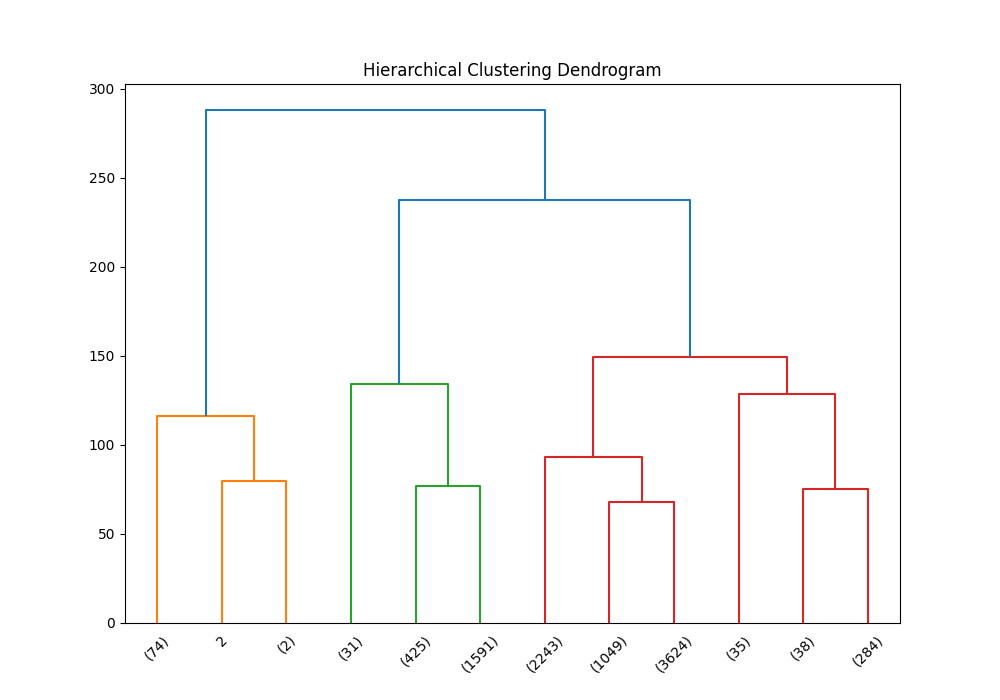
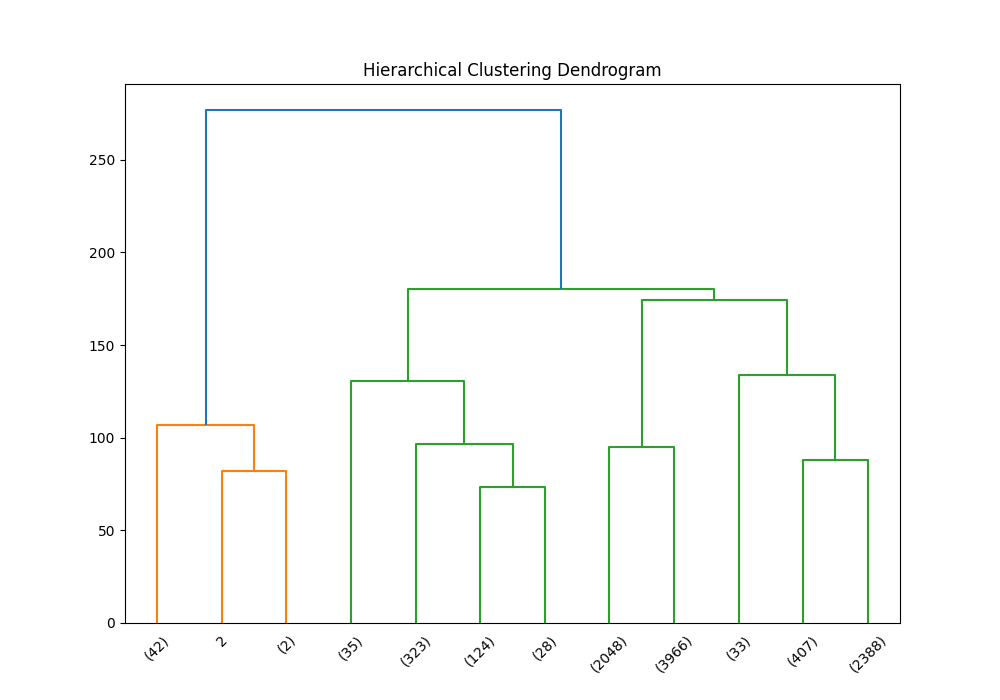
Latest Run results

diff --git a/goodreads/report.md b/goodreads/report.md
@@ -1,0 +1,187 @@
+# Dataset Analysis Report
+## CSV File Name: goodreads.csv
+## Dataset Overview
+- **Shape:** 10000 rows and 23 columns
+### Columns and Data Types:
+```plaintext
+book_id                        int64
+goodreads_book_id              int64
+best_book_id                   int64
+work_id                        int64
+books_count                    int64
+isbn                          object
+isbn13                       float64
+authors                       object
+original_publication_year    float64
+original_title                object
+title                         object
+language_code                 object
+average_rating               float64
+ratings_count                  int64
+work_ratings_count             int64
+work_text_reviews_count        int64
+ratings_1                      int64
+ratings_2                      int64
+ratings_3                      int64
+ratings_4                      int64
+ratings_5                      int64
+image_url                     object
+small_image_url               object
+```
+### Sample Rows:
+```plaintext
+    book_id  goodreads_book_id  best_book_id   work_id  books_count        isbn        isbn13                                                 authors  original_publication_year                                                                        original_title                                                             title language_code  average_rating  ratings_count  work_ratings_count  work_text_reviews_count  ratings_1  ratings_2  ratings_3  ratings_4  ratings_5                                                                                 image_url                                                                         small_image_url
+0         1            2767052       2767052   2792775          272   439023483  9.780439e+12                                         Suzanne Collins                     2008.0                                                                      The Hunger Games                           The Hunger Games (The Hunger Games, #1)           eng            4.34        4780653             4942365                   155254      66715     127936     560092    1481305    2706317                                https://images.gr-assets.com/books/1447303603m/2767052.jpg                              https://images.gr-assets.com/books/1447303603s/2767052.jpg
+1         2                  3             3   4640799          491   439554934  9.780440e+12                             J.K. Rowling, Mary GrandPré                     1997.0                                              Harry Potter and the Philosopher's Stone          Harry Potter and the Sorcerer's Stone (Harry Potter, #1)           eng            4.44        4602479             4800065                    75867      75504     101676     455024    1156318    3011543                                      https://images.gr-assets.com/books/1474154022m/3.jpg                                    https://images.gr-assets.com/books/1474154022s/3.jpg
+2         3              41865         41865   3212258          226   316015849  9.780316e+12                                         Stephenie Meyer                     2005.0                                                                              Twilight                                           Twilight (Twilight, #1)         en-US            3.57        3866839             3916824                    95009     456191     436802     793319     875073    1355439                                  https://images.gr-assets.com/books/1361039443m/41865.jpg                                https://images.gr-assets.com/books/1361039443s/41865.jpg
+3         4               2657          2657   3275794          487    61120081  9.780061e+12                                              Harper Lee                     1960.0                                                                 To Kill a Mockingbird                                             To Kill a Mockingbird           eng            4.25        3198671             3340896                    72586      60427     117415     446835    1001952    1714267                                   https://images.gr-assets.com/books/1361975680m/2657.jpg                                 https://images.gr-assets.com/books/1361975680s/2657.jpg
+4         5               4671          4671    245494         1356   743273567  9.780743e+12                                     F. Scott Fitzgerald                     1925.0                                                                      The Great Gatsby                                                  The Great Gatsby           eng            3.89        2683664             2773745                    51992      86236     197621     606158     936012     947718                                   https://images.gr-assets.com/books/1490528560m/4671.jpg                                 https://images.gr-assets.com/books/1490528560s/4671.jpg
+5         6           11870085      11870085  16827462          226   525478817  9.780525e+12                                              John Green                     2012.0                                                                The Fault in Our Stars                                            The Fault in Our Stars           eng            4.26        2346404             2478609                   140739      47994      92723     327550     698471    1311871                               https://images.gr-assets.com/books/1360206420m/11870085.jpg                             https://images.gr-assets.com/books/1360206420s/11870085.jpg
+6         7               5907          5907   1540236          969   618260307  9.780618e+12                                          J.R.R. Tolkien                     1937.0                                                    The Hobbit or There and Back Again                                                        The Hobbit         en-US            4.25        2071616             2196809                    37653      46023      76784     288649     665635    1119718                                   https://images.gr-assets.com/books/1372847500m/5907.jpg                                 https://images.gr-assets.com/books/1372847500s/5907.jpg
+7         8               5107          5107   3036731          360   316769177  9.780317e+12                                           J.D. Salinger                     1951.0                                                                The Catcher in the Rye                                            The Catcher in the Rye           eng            3.79        2044241             2120637                    44920     109383     185520     455042     661516     709176                                   https://images.gr-assets.com/books/1398034300m/5107.jpg                                 https://images.gr-assets.com/books/1398034300s/5107.jpg
+8         9                960           960   3338963          311  1416524797  9.781417e+12                                               Dan Brown                     2000.0                                                                      Angels & Demons                              Angels & Demons  (Robert Langdon, #1)         en-CA            3.85        2001311             2078754                    25112      77841     145740     458429     716569     680175                                    https://images.gr-assets.com/books/1303390735m/960.jpg                                  https://images.gr-assets.com/books/1303390735s/960.jpg
+9        10               1885          1885   3060926         3455   679783261  9.780680e+12                                             Jane Austen                     1813.0                                                                   Pride and Prejudice                                               Pride and Prejudice           eng            4.24        2035490             2191465                    49152      54700      86485     284852     609755    1155673                                   https://images.gr-assets.com/books/1320399351m/1885.jpg                                 https://images.gr-assets.com/books/1320399351s/1885.jpg
+10       11              77203         77203   3295919          283  1594480001  9.781594e+12                                         Khaled Hosseini                     2003.0                                                                      The Kite Runner                                                    The Kite Runner           eng            4.26        1813044             1878095                    59730      34288      59980     226062     628174     929591                                  https://images.gr-assets.com/books/1484565687m/77203.jpg                                https://images.gr-assets.com/books/1484565687s/77203.jpg
+11       12           13335037      13335037  13155899          210    62024035  9.780062e+12                                           Veronica Roth                     2011.0                                                                             Divergent                                         Divergent (Divergent, #1)           eng            4.24        1903563             2216814                   101023      36315      82870     310297     673028    1114304                               https://images.gr-assets.com/books/1328559506m/13335037.jpg                             https://images.gr-assets.com/books/1328559506s/13335037.jpg
+12       13               5470          5470    153313          995   451524934  9.780452e+12                 George Orwell, Erich Fromm, Celâl Üster                     1949.0                                                                  Nineteen Eighty-Four                                                              1984           eng            4.14        1956832             2053394                    45518      41845      86425     324874     692021     908229                                   https://images.gr-assets.com/books/1348990566m/5470.jpg                                 https://images.gr-assets.com/books/1348990566s/5470.jpg
+13       14               7613          7613   2207778          896   452284244  9.780452e+12                                           George Orwell                     1945.0                                                            Animal Farm: A Fairy Story                                                       Animal Farm           eng            3.87        1881700             1982987                    35472      66854     135147     433432     698642     648912                                   https://images.gr-assets.com/books/1424037542m/7613.jpg                                 https://images.gr-assets.com/books/1424037542s/7613.jpg
+14       15              48855         48855   3532896          710   553296981  9.780553e+12  Anne Frank, Eleanor Roosevelt, B.M. Mooyaart-Doubleday                     1947.0                         Het Achterhuis: Dagboekbrieven 14 juni 1942 - 1 augustus 1944                                         The Diary of a Young Girl           eng            4.10        1972666             2024493                    20825      45225      91270     355756     656870     875372                                  https://images.gr-assets.com/books/1358276407m/48855.jpg                                https://images.gr-assets.com/books/1358276407s/48855.jpg
+15       16            2429135       2429135   1708725          274   307269752  9.780307e+12                              Stieg Larsson, Reg Keeland                     2005.0                                                                 Män som hatar kvinnor                  The Girl with the Dragon Tattoo (Millennium, #1)           eng            4.11        1808403             1929834                    62543      54835      86051     285413     667485     836050                                https://images.gr-assets.com/books/1327868566m/2429135.jpg                              https://images.gr-assets.com/books/1327868566s/2429135.jpg
+16       17            6148028       6148028   6171458          201   439023491  9.780439e+12                                         Suzanne Collins                     2009.0                                                                         Catching Fire                              Catching Fire (The Hunger Games, #2)           eng            4.30        1831039             1988079                    88538      10492      48030     262010     687238     980309                                https://images.gr-assets.com/books/1358273780m/6148028.jpg                              https://images.gr-assets.com/books/1358273780s/6148028.jpg
+17       18                  5             5   2402163          376  043965548X  9.780440e+12                 J.K. Rowling, Mary GrandPré, Rufus Beck                     1999.0                                              Harry Potter and the Prisoner of Azkaban       Harry Potter and the Prisoner of Azkaban (Harry Potter, #3)           eng            4.53        1832823             1969375                    36099       6716      20413     166129     509447    1266670                                      https://images.gr-assets.com/books/1499277281m/5.jpg                                    https://images.gr-assets.com/books/1499277281s/5.jpg
+18       19                 34            34   3204327          566   618346252  9.780618e+12                                          J.R.R. Tolkien                     1954.0                                                            The Fellowship of the Ring            The Fellowship of the Ring (The Lord of the Rings, #1)           eng            4.34        1766803             1832541                    15333      38031      55862     202332     493922    1042394                                     https://images.gr-assets.com/books/1298411339m/34.jpg                                   https://images.gr-assets.com/books/1298411339s/34.jpg
+19       20            7260188       7260188   8812783          239   439023513  9.780439e+12                                         Suzanne Collins                     2010.0                                                                            Mockingjay                                 Mockingjay (The Hunger Games, #3)           eng            4.03        1719760             1870748                    96274      30144     110498     373060     618271     738775                                https://images.gr-assets.com/books/1358275419m/7260188.jpg                              https://images.gr-assets.com/books/1358275419s/7260188.jpg
+20       21                  2             2   2809203          307   439358078  9.780439e+12                             J.K. Rowling, Mary GrandPré                     2003.0                                             Harry Potter and the Order of the Phoenix      Harry Potter and the Order of the Phoenix (Harry Potter, #5)           eng            4.46        1735368             1840548                    28685       9528      31577     180210     494427    1124806                                      https://images.gr-assets.com/books/1387141547m/2.jpg                                    https://images.gr-assets.com/books/1387141547s/2.jpg
+21       22           12232938      12232938   1145090          183   316166685  9.780316e+12                                            Alice Sebold                     2002.0                                                                      The Lovely Bones                                                  The Lovely Bones           eng            3.77        1605173             1661562                    36642      62777     131188     404699     583575     479323                               https://images.gr-assets.com/books/1457810586m/12232938.jpg                             https://images.gr-assets.com/books/1457810586s/12232938.jpg
+22       23              15881         15881   6231171          398   439064864  9.780439e+12                             J.K. Rowling, Mary GrandPré                     1998.0                                               Harry Potter and the Chamber of Secrets        Harry Potter and the Chamber of Secrets (Harry Potter, #2)           eng            4.37        1779331             1906199                    34172       8253      42251     242345     548266    1065084                                  https://images.gr-assets.com/books/1474169725m/15881.jpg                                https://images.gr-assets.com/books/1474169725s/15881.jpg
+23       24                  6             6   3046572          332   439139600  9.780439e+12                             J.K. Rowling, Mary GrandPré                     2000.0                                                   Harry Potter and the Goblet of Fire            Harry Potter and the Goblet of Fire (Harry Potter, #4)           eng            4.53        1753043             1868642                    31084       6676      20210     151785     494926    1195045                                      https://images.gr-assets.com/books/1361482611m/6.jpg                                    https://images.gr-assets.com/books/1361482611s/6.jpg
+24       25             136251        136251   2963218          263   545010225  9.780545e+12                             J.K. Rowling, Mary GrandPré                     2007.0                                                  Harry Potter and the Deathly Hallows           Harry Potter and the Deathly Hallows (Harry Potter, #7)           eng            4.61        1746574             1847395                    51942       9363      22245     113646     383914    1318227                                 https://images.gr-assets.com/books/1474171184m/136251.jpg                               https://images.gr-assets.com/books/1474171184s/136251.jpg
+25       26                968           968   2982101          350   307277674  9.780307e+12                                               Dan Brown                     2003.0                                                                     The Da Vinci Code                            The Da Vinci Code (Robert Langdon, #2)           eng            3.79        1447148             1557292                    41560      71345     126493     340790     539277     479387                                    https://images.gr-assets.com/books/1303252999m/968.jpg                                  https://images.gr-assets.com/books/1303252999s/968.jpg
+26       27                  1             1  41335427          275   439785960  9.780440e+12                             J.K. Rowling, Mary GrandPré                     2005.0                                                Harry Potter and the Half-Blood Prince         Harry Potter and the Half-Blood Prince (Harry Potter, #6)           eng            4.54        1678823             1785676                    27520       7308      21516     136333     459028    1161491                                      https://images.gr-assets.com/books/1361039191m/1.jpg                                    https://images.gr-assets.com/books/1361039191s/1.jpg
+27       28               7624          7624   2766512          458   140283331  9.780140e+12                                         William Golding                     1954.0                                                                    Lord of the Flies                                                  Lord of the Flies           eng            3.64        1605019             1671484                    26886      92779     160295     425648     564916     427846                                   https://images.gr-assets.com/books/1327869409m/7624.jpg                                 https://images.gr-assets.com/books/1327869409s/7624.jpg
+28       29              18135         18135   3349450         1937   743477111  9.780743e+12           William Shakespeare, Robert           Jackson                     1595.0                                   An Excellent conceited Tragedie of Romeo and Juliet                                                  Romeo and Juliet           eng            3.73        1628519             1672889                    14778      57980     153179     452673     519822     489235                                  https://images.gr-assets.com/books/1327872146m/18135.jpg                                https://images.gr-assets.com/books/1327872146s/18135.jpg
+29       30            8442457      19288043  13306276          196   297859382  9.780298e+12                                           Gillian Flynn                     2012.0                                                                             Gone Girl                                                         Gone Girl           eng            4.03         512475             1626519                   121614      38874      80807     280331     616031     610476                                https://images.gr-assets.com/books/1339602131m/8442457.jpg                              https://images.gr-assets.com/books/1339602131s/8442457.jpg
+30       31            4667024       4667024   4717423          183   399155341  9.780399e+12                                        Kathryn Stockett                     2009.0                                                                              The Help                                                          The Help           eng            4.45        1531753             1603545                    78204      10235      25117     134887     490754     942552                                https://images.gr-assets.com/books/1346100365m/4667024.jpg                              https://images.gr-assets.com/books/1346100365s/4667024.jpg
+31       32                890           890     40283          373   142000671  9.780142e+12                                          John Steinbeck                     1937.0                                                                      Of Mice and Men                                                    Of Mice and Men           eng            3.84        1467496             1518741                    24642      46630     110856     355169     532291     473795                                    https://images.gr-assets.com/books/1437235233m/890.jpg                                  https://images.gr-assets.com/books/1437235233s/890.jpg
+32       33                930           929   1558965          220   739326228  9.780739e+12                                           Arthur Golden                     1997.0                                                                   Memoirs of a Geisha                                               Memoirs of a Geisha           eng            4.08        1300209             1418172                    25605      23500      59033     258700     517157     559782  https://s.gr-assets.com/assets/nophoto/book/111x148-bcc042a9c91a29c1d680899eff700a03.png  https://s.gr-assets.com/assets/nophoto/book/50x75-a91bf249278a81aabab721ef782c4a74.png
+33       34           10818853      10818853  15732562          169  1612130291  9.781612e+12                                              E.L. James                     2011.0                                                                  Fifty Shades of Grey                           Fifty Shades of Grey (Fifty Shades, #1)           eng            3.67        1338493             1436818                    75437     165455     152293     252185     294976     571909                               https://images.gr-assets.com/books/1385207843m/10818853.jpg                             https://images.gr-assets.com/books/1385207843s/10818853.jpg
+34       35                865           865   4835472          458    61122416  9.780061e+12                            Paulo Coelho, Alan R. Clarke                     1988.0                                                                          O Alquimista                                                     The Alchemist           eng            3.82        1299566             1403995                    55781      74846     123614     289143     412180     504212                                    https://images.gr-assets.com/books/1483412266m/865.jpg                                  https://images.gr-assets.com/books/1483412266s/865.jpg
+35       36               3636          3636   2543234          192   385732554  9.780386e+12                                              Lois Lowry                     1993.0                                                                             The Giver                                         The Giver (The Giver, #1)           eng            4.12        1296825             1345445                    54084      26497      59652     225326     448691     585279                                   https://images.gr-assets.com/books/1342493368m/3636.jpg                                 https://images.gr-assets.com/books/1342493368s/3636.jpg
+36       37             100915        100915   4790821          474    60764899  9.780061e+12                                              C.S. Lewis                     1950.0                                                  The Lion, the Witch and the Wardrobe  The Lion, the Witch, and the Wardrobe (Chronicles of Narnia, #1)           eng            4.19        1531800             1584884                    15186      19309      55542     262038     513366     734629                                 https://images.gr-assets.com/books/1353029077m/100915.jpg                               https://images.gr-assets.com/books/1353029077s/100915.jpg
+37       38              14050      18619684   2153746          167   965818675  9.780966e+12                                      Audrey Niffenegger                     2003.0                                                              The Time Traveler's Wife                                          The Time Traveler's Wife           eng            3.95         746287             1308667                    43382      44339      85429     257805     427210     493884                                  https://images.gr-assets.com/books/1437728815m/14050.jpg                                https://images.gr-assets.com/books/1437728815s/14050.jpg
+38       39              13496         13496   1466917          101   553588486  9.780554e+12                                      George R.R. Martin                     1996.0                                                                     A Game of Thrones                    A Game of Thrones (A Song of Ice and Fire, #1)           eng            4.45        1319204             1442220                    46205      19988      28983     114092     404583     874574                                  https://images.gr-assets.com/books/1436732693m/13496.jpg                                https://images.gr-assets.com/books/1436732693s/13496.jpg
+39       40              19501         19501   3352398          185   143038419  9.780143e+12                                       Elizabeth Gilbert                     2006.0  Eat, pray, love: one woman's search for everything across Italy, India and Indonesia                                                   Eat, Pray, Love           eng            3.51        1181647             1206597                    49714     100373     149549     310212     332191     314272                                  https://images.gr-assets.com/books/1503066414m/19501.jpg                                https://images.gr-assets.com/books/1503066414s/19501.jpg
+40       41              28187         28187   3346751          159   786838655  9.780787e+12                                            Rick Riordan                     2005.0                                                                   The Lightning Thief         The Lightning Thief (Percy Jackson and the Olympians, #1)           eng            4.23        1366265             1411114                    46006      18303      48294     219638     435514     689365                                  https://images.gr-assets.com/books/1400602609m/28187.jpg                                https://images.gr-assets.com/books/1400602609s/28187.jpg
+41       42               1934          1934   3244642         1707   451529308  9.780452e+12                                       Louisa May Alcott                     1868.0                                                                          Little Women                                   Little Women (Little Women, #1)         en-US            4.04        1257121             1314293                    17090      31645      70011     250794     426280     535563  https://s.gr-assets.com/assets/nophoto/book/111x148-bcc042a9c91a29c1d680899eff700a03.png  https://s.gr-assets.com/assets/nophoto/book/50x75-a91bf249278a81aabab721ef782c4a74.png
+42       43              10210         10210   2977639         2568   142437204  9.780142e+12                         Charlotte Brontë, Michael Mason                     1847.0                                                                             Jane Eyre                                                         Jane Eyre           eng            4.10        1198557             1286135                    31212      35132      64274     212294     400214     574221                                  https://images.gr-assets.com/books/1327867269m/10210.jpg                                https://images.gr-assets.com/books/1327867269s/10210.jpg
+43       44              15931         15931   1498135          190   553816713  9.780554e+12                                         Nicholas Sparks                     1996.0                                                                          The Notebook                                   The Notebook (The Notebook, #1)           eng            4.06        1053403             1076749                    17279      41395      63432     176469     298259     497194                                  https://images.gr-assets.com/books/1385738917m/15931.jpg                                https://images.gr-assets.com/books/1385738917s/15931.jpg
+44       45               4214          4214   1392700          264   770430074  9.780770e+12                                             Yann Martel                     2001.0                                                                            Life of Pi                                                        Life of Pi           NaN            3.88        1003228             1077431                    42962      39768      74331     218702     384164     360466                                   https://images.gr-assets.com/books/1320562005m/4214.jpg                                 https://images.gr-assets.com/books/1320562005s/4214.jpg
+45       46              43641         43641   3441236          128  1565125606  9.781565e+12                                              Sara Gruen                     2006.0                                                                   Water for Elephants                                               Water for Elephants           eng            4.07        1068146             1108839                    55732      16705      49832     200154     417328     424820                                  https://images.gr-assets.com/books/1494428973m/43641.jpg                                https://images.gr-assets.com/books/1494428973s/43641.jpg
+46       47              19063         19063    878368          251   375831002  9.780376e+12                                            Markus Zusak                     2005.0                                                                        The Book Thief                                                    The Book Thief           eng            4.36        1159741             1287798                    93611      17892      35360     135272     377218     722056                                  https://images.gr-assets.com/books/1390053681m/19063.jpg                                https://images.gr-assets.com/books/1390053681s/19063.jpg
+47       48               4381          4381   1272463          507   307347974  9.780307e+12                                            Ray Bradbury                     1953.0                                                                        Fahrenheit 451                                                    Fahrenheit 451           spa            3.97         570498             1176240                    30694      28366      64289     238242     426292     419051                                   https://images.gr-assets.com/books/1351643740m/4381.jpg                                 https://images.gr-assets.com/books/1351643740s/4381.jpg
+48       49              49041         49041   3203964          194   316160199  9.780316e+12                                         Stephenie Meyer                     2006.0                                                               New Moon (Twilight, #2)                                           New Moon (Twilight, #2)           eng            3.52        1149630             1199000                    44020     102837     160660     294207     290612     350684                                  https://images.gr-assets.com/books/1361039440m/49041.jpg                                https://images.gr-assets.com/books/1361039440s/49041.jpg
+49       50              30119         30119     30518           45    60513039  9.780061e+12                                        Shel Silverstein                     1974.0                   Where the Sidewalk Ends: The Poems and Drawings of Shel Silverstein                                           Where the Sidewalk Ends           eng            4.29        1016888             1023781                     9234      16590      30792     139024     293222     544153                                  https://images.gr-assets.com/books/1168052448m/30119.jpg                                https://images.gr-assets.com/books/1168052448s/30119.jpg
+```
+## Basic Statistics
+```plaintext
+            book_id  goodreads_book_id  best_book_id       work_id   books_count       isbn        isbn13       authors  original_publication_year original_title           title language_code  average_rating  ratings_count  work_ratings_count  work_text_reviews_count      ratings_1      ratings_2      ratings_3     ratings_4     ratings_5                                                                                 image_url                                                                         small_image_url
+count   10000.00000       1.000000e+04  1.000000e+04  1.000000e+04  10000.000000       9300  9.415000e+03         10000                9979.000000           9415           10000          8916    10000.000000   1.000000e+04        1.000000e+04             10000.000000   10000.000000   10000.000000   10000.000000  1.000000e+04  1.000000e+04                                                                                     10000                                                                                   10000
+unique          NaN                NaN           NaN           NaN           NaN       9300           NaN          4664                        NaN           9274            9964            25             NaN            NaN                 NaN                      NaN            NaN            NaN            NaN           NaN           NaN                                                                                      6669                                                                                    6669
+top             NaN                NaN           NaN           NaN           NaN  439023483           NaN  Stephen King                        NaN                 Selected Poems           eng             NaN            NaN                 NaN                      NaN            NaN            NaN            NaN           NaN           NaN  https://s.gr-assets.com/assets/nophoto/book/111x148-bcc042a9c91a29c1d680899eff700a03.png  https://s.gr-assets.com/assets/nophoto/book/50x75-a91bf249278a81aabab721ef782c4a74.png
+freq            NaN                NaN           NaN           NaN           NaN          1           NaN            60                        NaN              5               4          6341             NaN            NaN                 NaN                      NaN            NaN            NaN            NaN           NaN           NaN                                                                                      3332                                                                                    3332
+mean     5000.50000       5.264697e+06  5.471214e+06  8.646183e+06     75.712700        NaN  9.755044e+12           NaN                1981.987674            NaN             NaN           NaN        4.002191   5.400124e+04        5.968732e+04              2919.955300    1345.040600    3110.885000   11475.893800  1.996570e+04  2.378981e+04                                                                                       NaN                                                                                     NaN
+std      2886.89568       7.575462e+06  7.827330e+06  1.175106e+07    170.470728        NaN  4.428619e+11           NaN                 152.576665            NaN             NaN           NaN        0.254427   1.573700e+05        1.678038e+05              6124.378132    6635.626263    9717.123578   28546.449183  5.144736e+04  7.976889e+04                                                                                       NaN                                                                                     NaN
+min         1.00000       1.000000e+00  1.000000e+00  8.700000e+01      1.000000        NaN  1.951703e+08           NaN               -1750.000000            NaN             NaN           NaN        2.470000   2.716000e+03        5.510000e+03                 3.000000      11.000000      30.000000     323.000000  7.500000e+02  7.540000e+02                                                                                       NaN                                                                                     NaN
+25%      2500.75000       4.627575e+04  4.791175e+04  1.008841e+06     23.000000        NaN  9.780316e+12           NaN                1990.000000            NaN             NaN           NaN        3.850000   1.356875e+04        1.543875e+04               694.000000     196.000000     656.000000    3112.000000  5.405750e+03  5.334000e+03                                                                                       NaN                                                                                     NaN
+50%      5000.50000       3.949655e+05  4.251235e+05  2.719524e+06     40.000000        NaN  9.780452e+12           NaN                2004.000000            NaN             NaN           NaN        4.020000   2.115550e+04        2.383250e+04              1402.000000     391.000000    1163.000000    4894.000000  8.269500e+03  8.836000e+03                                                                                       NaN                                                                                     NaN
+75%      7500.25000       9.382225e+06  9.636112e+06  1.451775e+07     67.000000        NaN  9.780831e+12           NaN                2011.000000            NaN             NaN           NaN        4.180000   4.105350e+04        4.591500e+04              2744.250000     885.000000    2353.250000    9287.000000  1.602350e+04  1.730450e+04                                                                                       NaN                                                                                     NaN
+max     10000.00000       3.328864e+07  3.553423e+07  5.639960e+07   3455.000000        NaN  9.790008e+12           NaN                2017.000000            NaN             NaN           NaN        4.820000   4.780653e+06        4.942365e+06            155254.000000  456191.000000  436802.000000  793319.000000  1.481305e+06  3.011543e+06                                                                                       NaN                                                                                     NaN
+```
+## Missing Values
+```plaintext
+isbn                          700
+isbn13                        585
+original_publication_year      21
+original_title                585
+language_code                1084
+```
+## Correlation Matrix
+```plaintext
+                            book_id  goodreads_book_id  best_book_id   work_id  books_count    isbn13  original_publication_year  average_rating  ratings_count  work_ratings_count  work_text_reviews_count  ratings_1  ratings_2  ratings_3  ratings_4  ratings_5
+book_id                    1.000000           0.115154      0.104516  0.113861    -0.263841 -0.011291                   0.049875       -0.040880      -0.373178           -0.382656                -0.419292  -0.239401  -0.345764  -0.413279  -0.407079  -0.332486
+goodreads_book_id          0.115154           1.000000      0.966620  0.929356    -0.164578 -0.048246                   0.133790       -0.024848      -0.073023           -0.063760                 0.118845  -0.038375  -0.056571  -0.075634  -0.063310  -0.056145
+best_book_id               0.104516           0.966620      1.000000  0.899258    -0.159240 -0.047253                   0.131442       -0.021187      -0.069182           -0.055835                 0.125893  -0.033894  -0.049284  -0.067014  -0.054462  -0.049524
+work_id                    0.113861           0.929356      0.899258  1.000000    -0.109436 -0.039320                   0.107972       -0.017555      -0.062720           -0.054712                 0.096985  -0.034590  -0.051367  -0.066746  -0.054775  -0.046745
+books_count               -0.263841          -0.164578     -0.159240 -0.109436     1.000000  0.017865                  -0.321753       -0.069888       0.324235            0.333664                 0.198698   0.225763   0.334923   0.383699   0.349564   0.279559
+isbn13                    -0.011291          -0.048246     -0.047253 -0.039320     0.017865  1.000000                  -0.004612       -0.025667       0.008904            0.009166                 0.009553   0.006054   0.010345   0.012142   0.010161   0.006622
+original_publication_year  0.049875           0.133790      0.131442  0.107972    -0.321753 -0.004612                   1.000000        0.015608      -0.024415           -0.025448                 0.027784  -0.019635  -0.038472  -0.042459  -0.025785  -0.015388
+average_rating            -0.040880          -0.024848     -0.021187 -0.017555    -0.069888 -0.025667                   0.015608        1.000000       0.044990            0.045042                 0.007481  -0.077997  -0.115875  -0.065237   0.036108   0.115412
+ratings_count             -0.373178          -0.073023     -0.069182 -0.062720     0.324235  0.008904                  -0.024415        0.044990       1.000000            0.995068                 0.779635   0.723144   0.845949   0.935193   0.978869   0.964046
+work_ratings_count        -0.382656          -0.063760     -0.055835 -0.054712     0.333664  0.009166                  -0.025448        0.045042       0.995068            1.000000                 0.807009   0.718718   0.848581   0.941182   0.987764   0.966587
+work_text_reviews_count   -0.419292           0.118845      0.125893  0.096985     0.198698  0.009553                   0.027784        0.007481       0.779635            0.807009                 1.000000   0.572007   0.696880   0.762214   0.817826   0.764940
+ratings_1                 -0.239401          -0.038375     -0.033894 -0.034590     0.225763  0.006054                  -0.019635       -0.077997       0.723144            0.718718                 0.572007   1.000000   0.926140   0.795364   0.672986   0.597231
+ratings_2                 -0.345764          -0.056571     -0.049284 -0.051367     0.334923  0.010345                  -0.038472       -0.115875       0.845949            0.848581                 0.696880   0.926140   1.000000   0.949596   0.838298   0.705747
+ratings_3                 -0.413279          -0.075634     -0.067014 -0.066746     0.383699  0.012142                  -0.042459       -0.065237       0.935193            0.941182                 0.762214   0.795364   0.949596   1.000000   0.952998   0.825550
+ratings_4                 -0.407079          -0.063310     -0.054462 -0.054775     0.349564  0.010161                  -0.025785        0.036108       0.978869            0.987764                 0.817826   0.672986   0.838298   0.952998   1.000000   0.933785
+ratings_5                 -0.332486          -0.056145     -0.049524 -0.046745     0.279559  0.006622                  -0.015388        0.115412       0.964046            0.966587                 0.764940   0.597231   0.705747   0.825550   0.933785   1.000000
+```
+![Correlation Matrix](correlation_matrix.png)
+## Outlier Detection
+- **book_id:** 0 outliers
+- **goodreads_book_id:** 345 outliers
+- **best_book_id:** 357 outliers
+- **work_id:** 601 outliers
+- **books_count:** 844 outliers
+- **isbn13:** 556 outliers
+- **original_publication_year:** 1031 outliers
+- **average_rating:** 158 outliers
+- **ratings_count:** 1163 outliers
+- **work_ratings_count:** 1143 outliers
+- **work_text_reviews_count:** 1005 outliers
+- **ratings_1:** 1140 outliers
+- **ratings_2:** 1156 outliers
+- **ratings_3:** 1149 outliers
+- **ratings_4:** 1131 outliers
+- **ratings_5:** 1158 outliers
+## Clustering Analysis
+Cluster Labels:
+| Cluster | Count |
+|---------|-------|
+| 0.0 | 7193 |
+| 1.0 | 2122 |
+| 2.0 | 82 |
+
+## Categorical Data Analysis
+### Unique Value Count for All Categorical Columns
+| Column | Unique Value Count |
+|---------|--------------------|
+| isbn | 9300 |
+| authors | 4664 |
+| original_title | 9274 |
+| title | 9964 |
+| language_code | 25 |
+| image_url | 6669 |
+| small_image_url | 6669 |
+
+## Hierarchical Clustering
+![Dendrogram](dendrogram.png)
+## Visualizations
+![Pairplot](pairplot.png)
+Skipping distribution plot for book_id because it has 10000 distinct values.
+Skipping distribution plot for goodreads_book_id because it has 10000 distinct values.
+Skipping distribution plot for best_book_id because it has 10000 distinct values.
+Skipping distribution plot for work_id because it has 10000 distinct values.
+Skipping distribution plot for books_count because it has 597 distinct values.
+Skipping distribution plot for isbn13 because it has 9153 distinct values.
+Skipping distribution plot for original_publication_year because it has 293 distinct values.
+Skipping distribution plot for average_rating because it has 184 distinct values.
+Skipping distribution plot for ratings_count because it has 9003 distinct values.
+Skipping distribution plot for work_ratings_count because it has 9053 distinct values.
+Skipping distribution plot for work_text_reviews_count because it has 4581 distinct values.
+Skipping distribution plot for ratings_1 because it has 2630 distinct values.
+Skipping distribution plot for ratings_2 because it has 4117 distinct values.
+Skipping distribution plot for ratings_3 because it has 6972 distinct values.
+Skipping distribution plot for ratings_4 because it has 7762 distinct values.
+Skipping distribution plot for ratings_5 because it has 8103 distinct values.
+## Hierarchical Clustering
+![Dendrogram](dendrogram.png)
